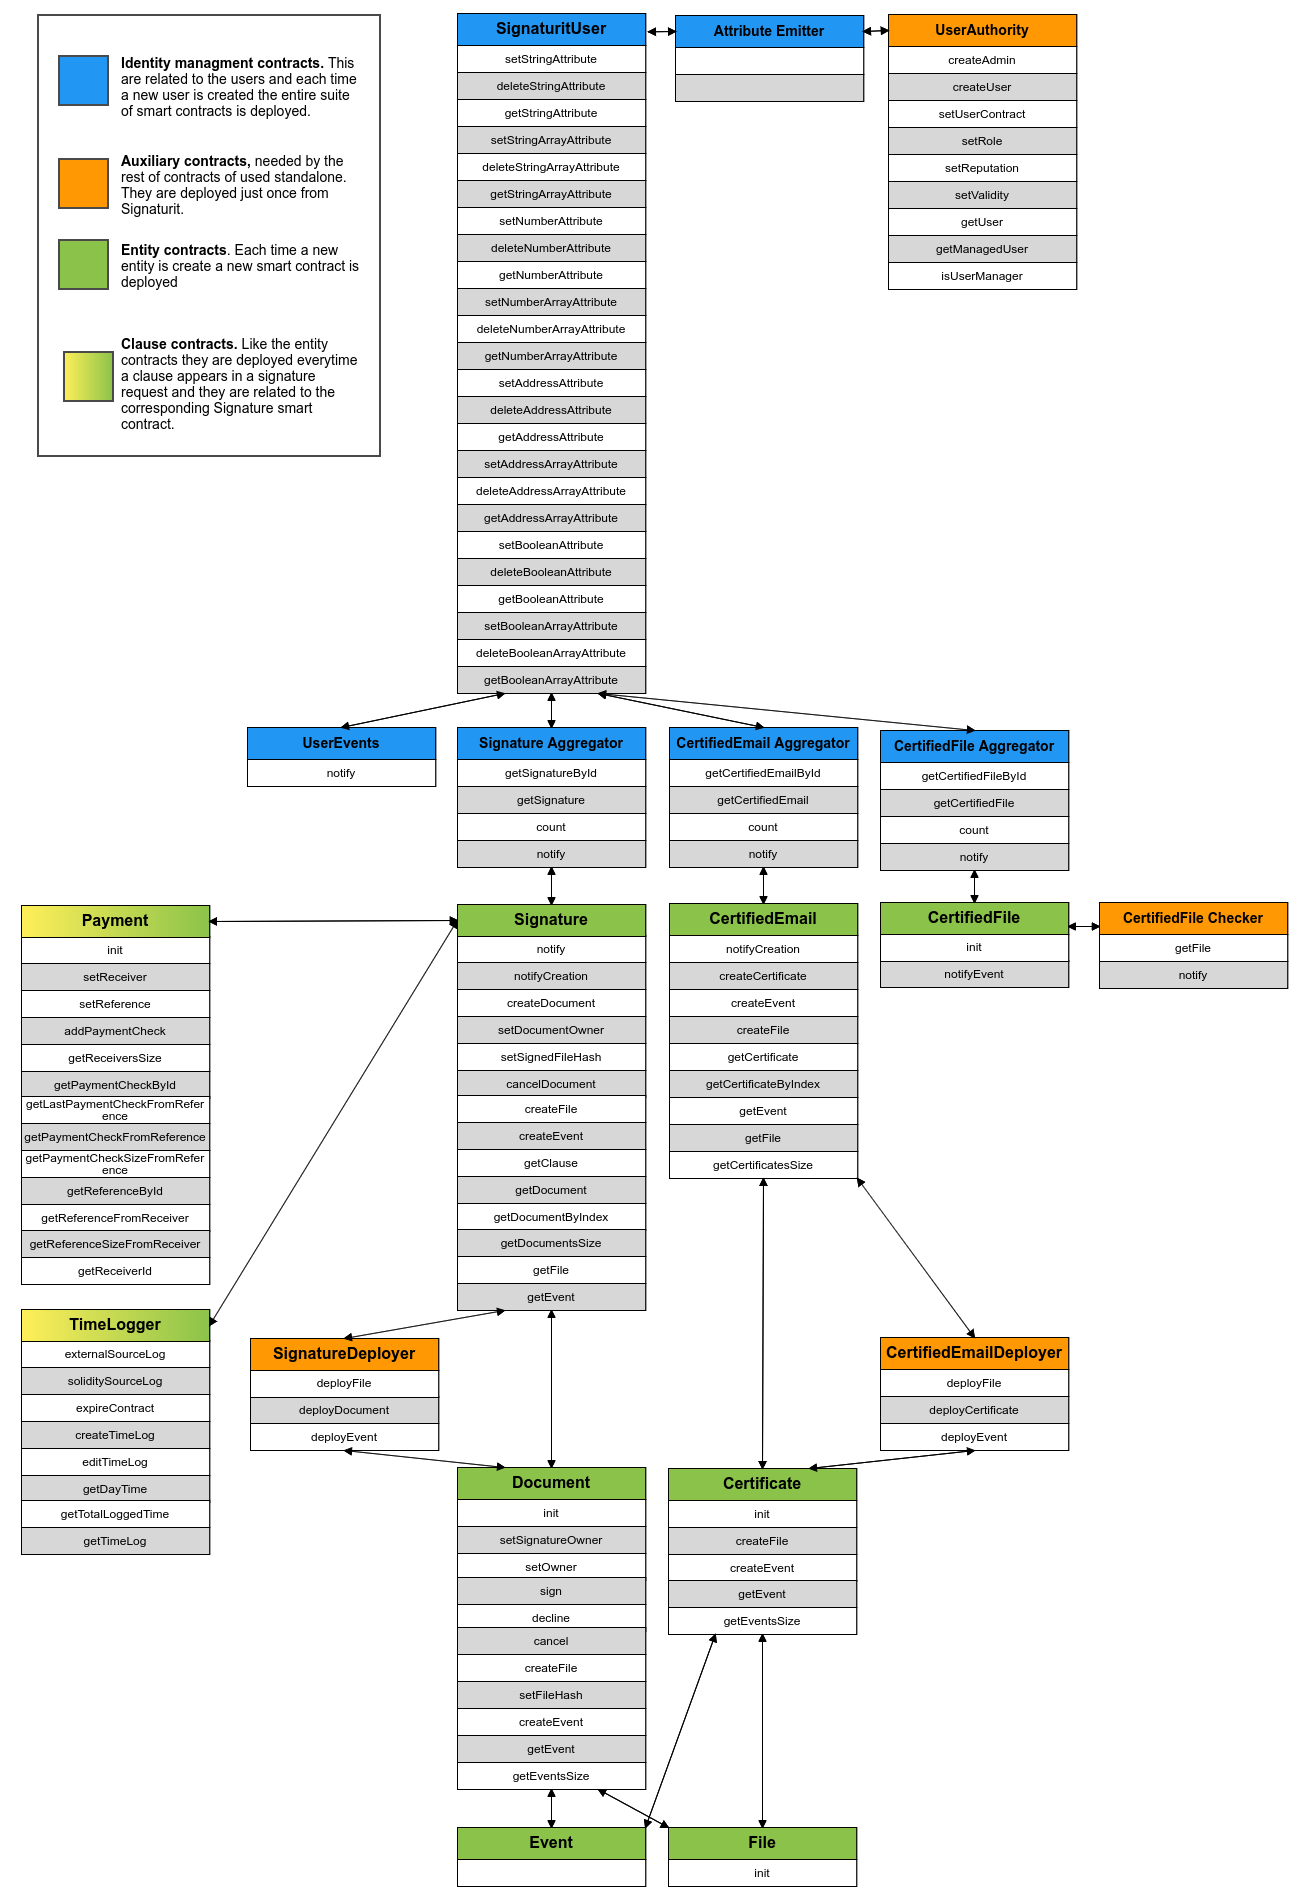
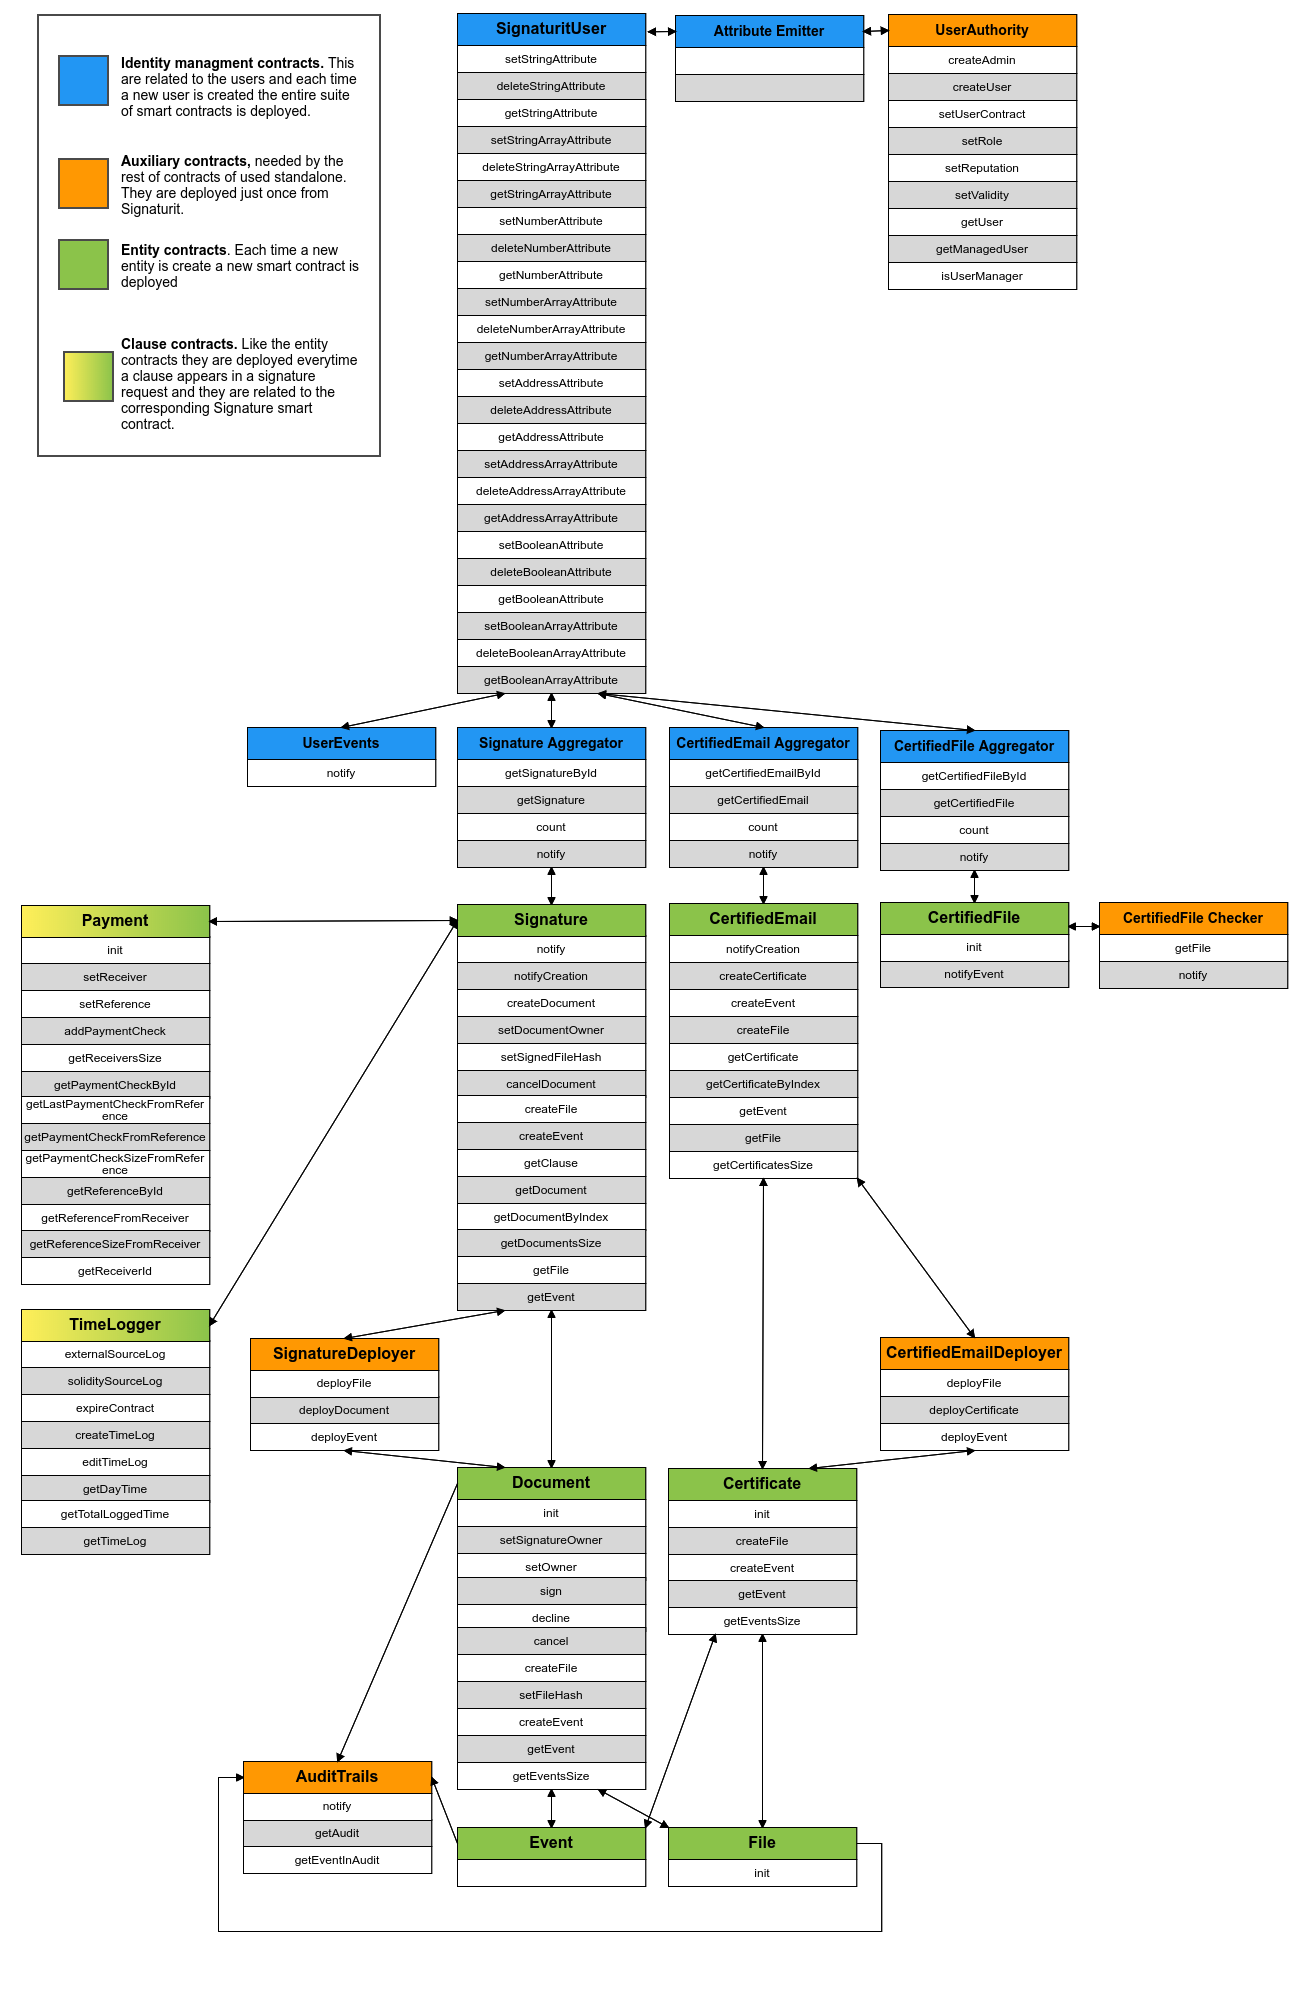
new package version

Changed region(s): [[0.0, 0.0, 1.0, 0.9937], [0.0308, 0.0311, 0.2769, 0.2484], [0.5231, 0.0, 0.8308, 0.1553]]

diff --git a/README.md b/README.md
@@ -100,6 +100,15 @@ One of this is deployed for each user and with our SDK you can subscribe to the 
 | signaturit | address | no |
 | userContract | address | no |
 
+#### _AuditTrails.sol_
+
+This smart contract is intended to build evidences (AuditTrail) of each signature request. It is a unique smart contract for all the users and all the signature requests they create. Everytime a new user is created the subscribe function must be called in order for the contract to be able to track all the signature requests. It has no public parameters but just a function to get an audit from a documentId and an user or to get an event related to it.
+
+| Parameter | Type | Hashed ? |
+| ------------- | ------------- | ------------- |
+| N/A | N/A | N/A |
+
+
 #### _CertifiedFileChecker.sol_
 
 This smart contract is an aggregator of all the certified files uploaded to the Signaturit's platform of all the users connected to blockchain and it is intended to save the hash of the file and to serve a webpage to check document integrity and originality once created.
